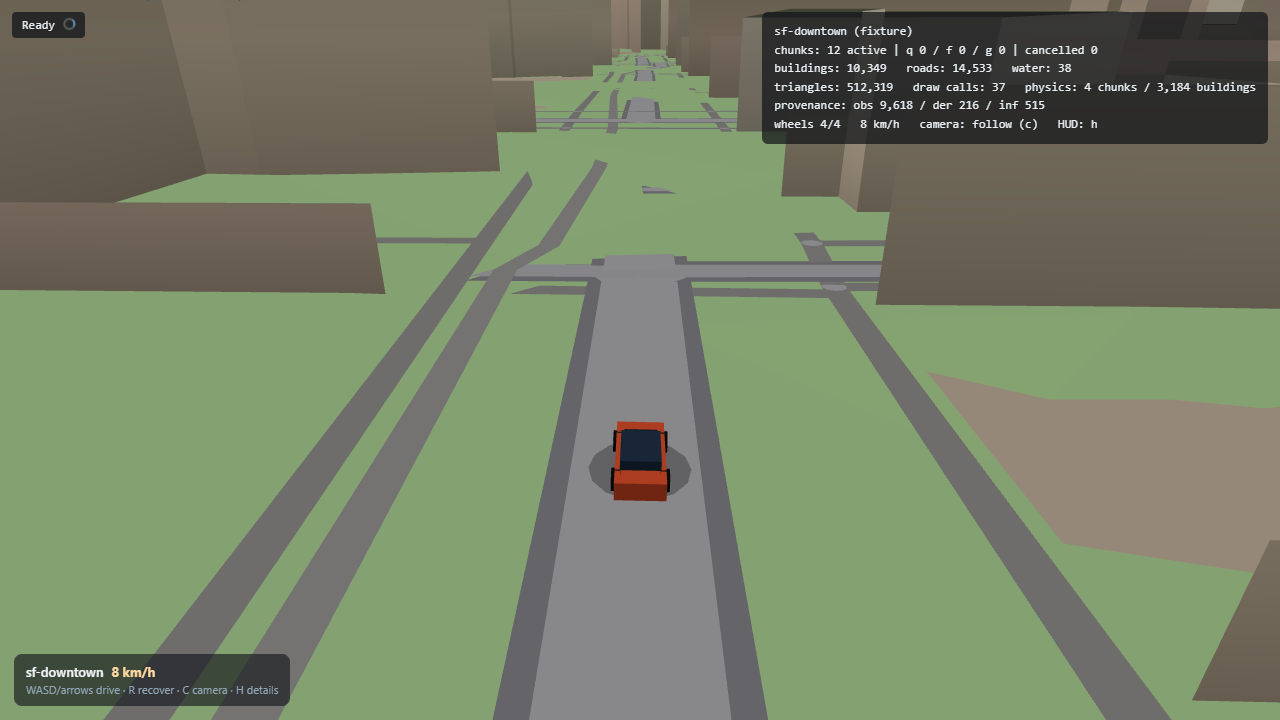
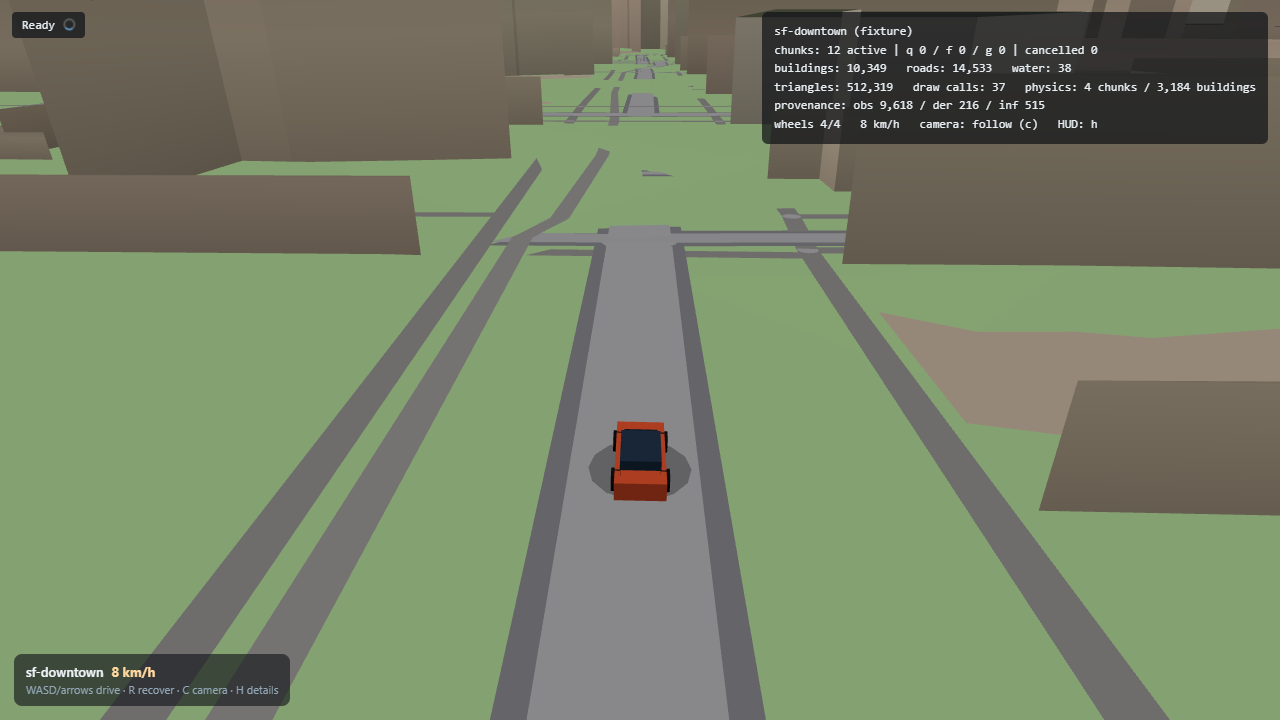
harness/smoke: smoke test timeout 120s->300s (SwiftShader under load); audit gate classifies network failures as BLOCKED_EXTERNAL

diff --git a/tests/e2e/smoke.spec.ts b/tests/e2e/smoke.spec.ts
@@ -46,7 +46,7 @@ async function waitForRendered(canvas: Locator, relX: number, relY: number, labe
 }
 
 test("static vertical slice: fixture world boots and renders", async ({ page }) => {
-  test.setTimeout(120000);
+  test.setTimeout(300000);
   await page.goto("/?fixture=sf-downtown");
   await expect(page.locator("#status")).toContainText("Ready", { timeout: 90000 });
   // Public view: small HUD by default, full diagnostics behind H.
